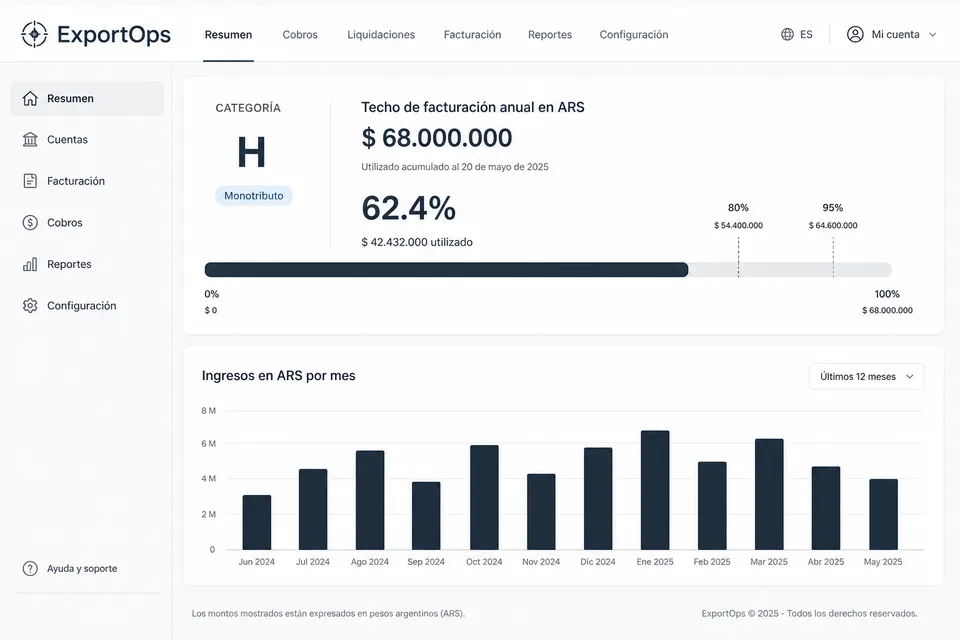
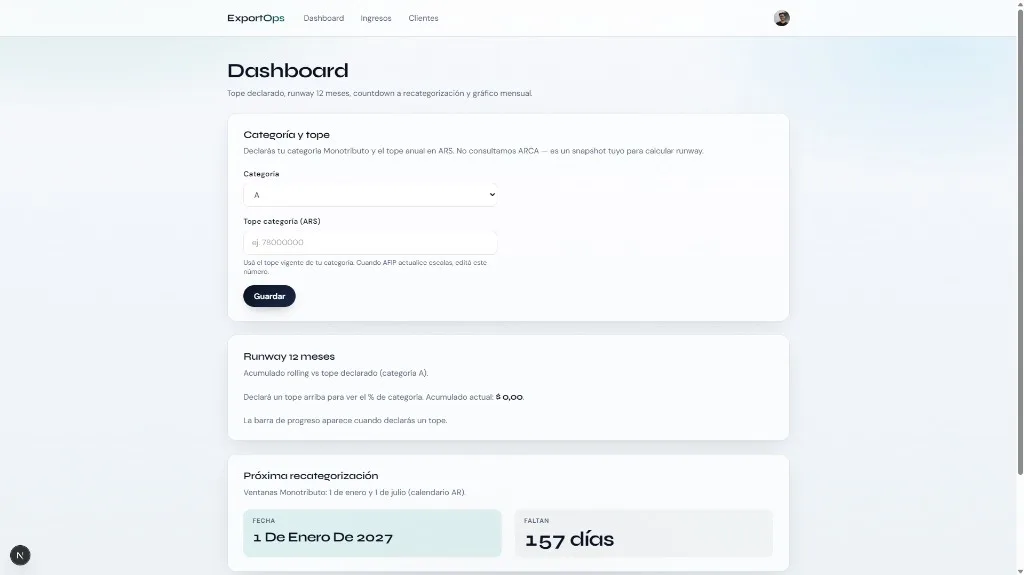
docs(export-ops): refresh project card poster with Day 5 dashboard
Swap in the live dashboard screenshot (category tope, runway, recategorization countdown) for the ExportOps card.

diff --git a/lib/translations.ts b/lib/translations.ts
@@ -256,7 +256,7 @@ export const translations = {
     saravaBulletCi: "CI — GitHub Actions lint + production build; admin multi-theme picker.",
     saravaMore: "Engineering arc: from JSON-in-Git static hub to Clerk/Neon/Blob CMS with community comments—without rebuilding the public site from scratch.",
     saravaCardToggle: "Quick summary",
-    exportOpsAlt: "ExportOps dashboard with category runway and monthly bars",
+    exportOpsAlt: "ExportOps dashboard — category tope, 12-month runway, and recategorization countdown",
     exportOpsTitle: "ExportOps — Freelancer Export Cockpit",
     exportOpsProblem: "Monotributistas who get paid in USD see calculators and invoicers—but nothing simple joins ledger + BNA conversion + 12-month runway vs category ceiling before Jan/Jul recategorization.",
     exportOpsStack: "Next.js · TypeScript · Clerk · Neon/Prisma · Vercel",
@@ -674,7 +674,7 @@ export const translations = {
     saravaBulletCi: "CI — lint + build en GitHub Actions; selector multi-tema en admin.",
     saravaMore: "Arco de ingeniería: de hub estático JSON-en-Git a CMS Clerk/Neon/Blob con comentarios—sin reconstruir el sitio público desde cero.",
     saravaCardToggle: "Resumen rápido",
-    exportOpsAlt: "Dashboard de ExportOps con runway de categoría y barras mensuales",
+    exportOpsAlt: "Dashboard de ExportOps — tope de categoría, runway 12 meses y countdown de recategorización",
     exportOpsTitle: "ExportOps — Cockpit de exportación freelance",
     exportOpsProblem: "Los monotributistas que cobran en USD ven calculadoras y facturadores—pero nada simple une ledger + conversión BNA + runway 12 meses vs tope de categoría antes de la recategorización ene/jul.",
     exportOpsStack: "Next.js · TypeScript · Clerk · Neon/Prisma · Vercel",
